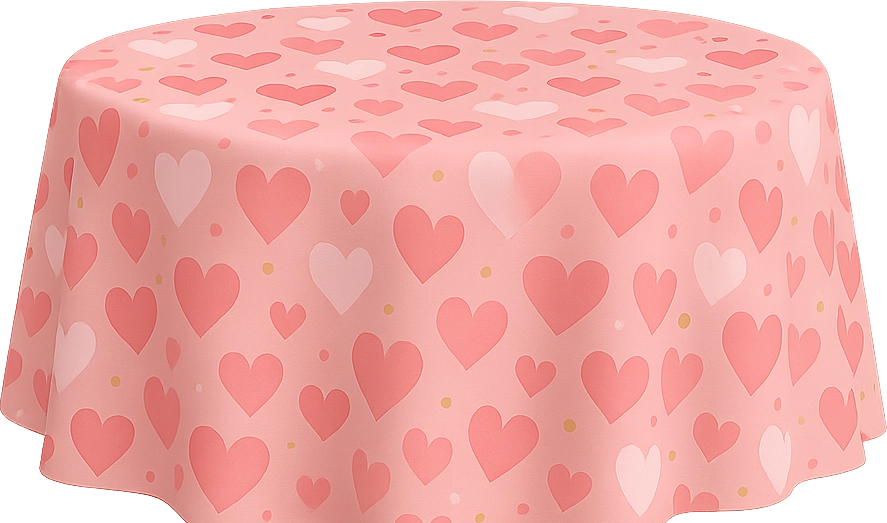
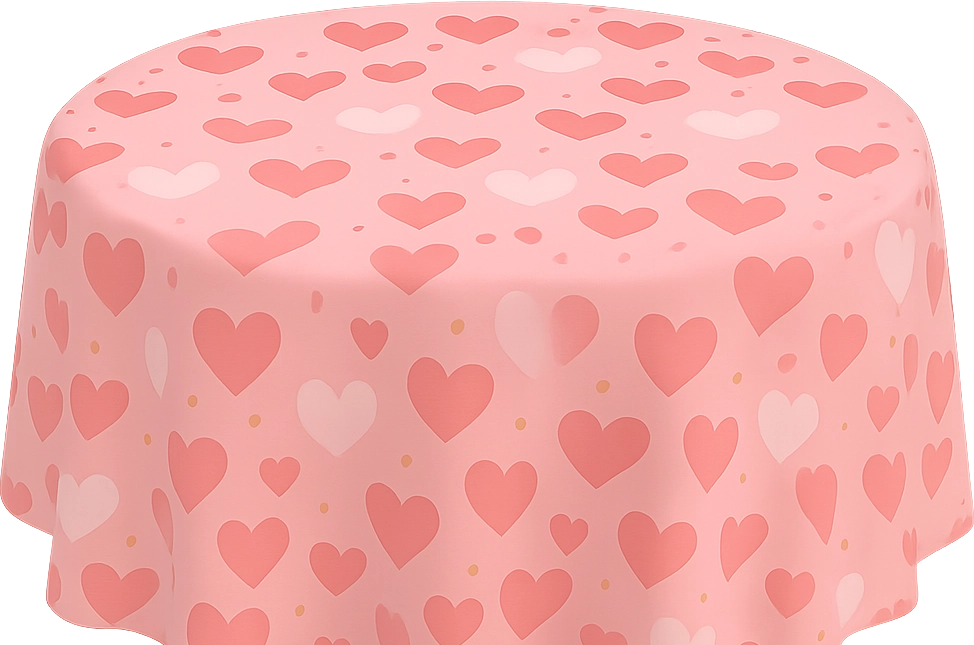
bg fg tables

diff --git a/src/components/misc/PuzzleEditor.ts b/src/components/misc/PuzzleEditor.ts
@@ -9,6 +9,7 @@ class PuzzleEditor {
     private _popupCtx2d?: CanvasRenderingContext2D;
 
     private _bgImage?: HTMLImageElement;
+    private _tableImage?: HTMLImageElement;
     private _fgImage?: HTMLImageElement;
     private _vertical!: boolean;
 
@@ -109,6 +110,23 @@ class PuzzleEditor {
         };
     }
 
+    setTable(url: string): void {
+        const image = new Image();
+        image.src = url;
+        image.onload = () => {
+            this._tableImage = image;
+            this._drawPopupPlane();
+
+            const fullImageUrl = url.replace("-small", "");
+            const fullImage = new Image();
+            fullImage.src = fullImageUrl;
+            fullImage.onload = () => {
+                this._tableImage = fullImage;
+                this._drawPopupPlane();
+            };
+        };
+    }
+
     setPopupForeground(fgUrl: string): void {
         /*if (!this._popupPlane || !this._popupDynamicTexture || !this._popupCtx2d) {
             console.warn("Popup plane not created. Call createPopupPlane() first.");
@@ -133,7 +151,7 @@ class PuzzleEditor {
 
     private _drawPopupPlane(): void {
         if (!this._popupDynamicTexture || !this._popupCtx2d) return;
-        if (!this._bgImage || !this._fgImage) return; // wait until both are loaded
+        if (!this._bgImage || !this._fgImage || !this._tableImage) return; // wait until all of them are loaded
 
         const planeWidth = this._popupDynamicTexture.getSize().width;
         const planeHeight = this._popupDynamicTexture.getSize().height;
@@ -157,13 +175,21 @@ class PuzzleEditor {
             bgDrawWidth = planeWidth;
             bgDrawHeight = this._bgImage.height * (planeWidth / this._bgImage.width);
             bgOffsetX = 0;
-            bgOffsetY = (planeHeight - bgDrawHeight) / 2;
+            bgOffsetY = (planeHeight - bgDrawHeight) / 1;
         }
 
         ctx2d.drawImage(this._bgImage, bgOffsetX, bgOffsetY, bgDrawWidth, bgDrawHeight);
 
         // Draw FOREGROUND (centered)
-        const fgDrawWidth = Math.min(planeWidth, planeHeight) * 0.9;//this._fgImage.width;
+        const tableDrawWidth = Math.min(planeWidth, planeHeight) * 1.2;//this._fgImage.width;
+        const tableDrawHeight = tableDrawWidth * this._fgImage.height / this._fgImage.width;
+        const tableOffsetX = (planeWidth - tableDrawWidth) / 2;
+        const tableOffsetY = (planeHeight - tableDrawHeight) / 0.21;
+
+        ctx2d.drawImage(this._tableImage, tableOffsetX, tableOffsetY, tableDrawWidth, tableDrawHeight);
+
+        // Draw FOREGROUND (centered)
+        const fgDrawWidth = Math.min(planeWidth, planeHeight) * 0.8;//this._fgImage.width;
         const fgDrawHeight = fgDrawWidth * this._fgImage.height / this._fgImage.width;
         const fgOffsetX = (planeWidth - fgDrawWidth) / 2;
         const fgOffsetY = (planeHeight - fgDrawHeight) / 1.2;

diff --git a/src/gui/dropdowns/BackgroundDropdownBuilder.ts b/src/gui/dropdowns/BackgroundDropdownBuilder.ts
@@ -3,7 +3,7 @@ import { GameMode } from "../../components/behaviors/GameModeManager";
 import giftMaker from "../GiftMaker";
 
 export default class BackgroundDropdownBuilder extends DropdownBuilder {
-    private static readonly bgs = [ "confetti", "fireworks", "gifts", "stars", "people" ];
+    private static readonly bgs = [ "cartoons", "room", "autumn", "meadow", "trees", "garden", "stars" ];
 
     constructor() {
         super({ gameModes: [ GameMode.GiftAdjustment ], icon: "bubu",

diff --git a/src/gui/GiftMaker.ts b/src/gui/GiftMaker.ts
@@ -75,6 +75,8 @@ class GiftMaker {
         gameModeManager.addGameModeChangedObserver(() => {
             this._colorPicker.isVisible = gameModeManager.currentMode === GameMode.GiftAdjustment;
         });
+
+        puzzleEditor.setTable("assets/gift/tables/table_1-small.webp");// TODO
     }
 
     public fontFamilyChanged(fontFamily: string): void {
